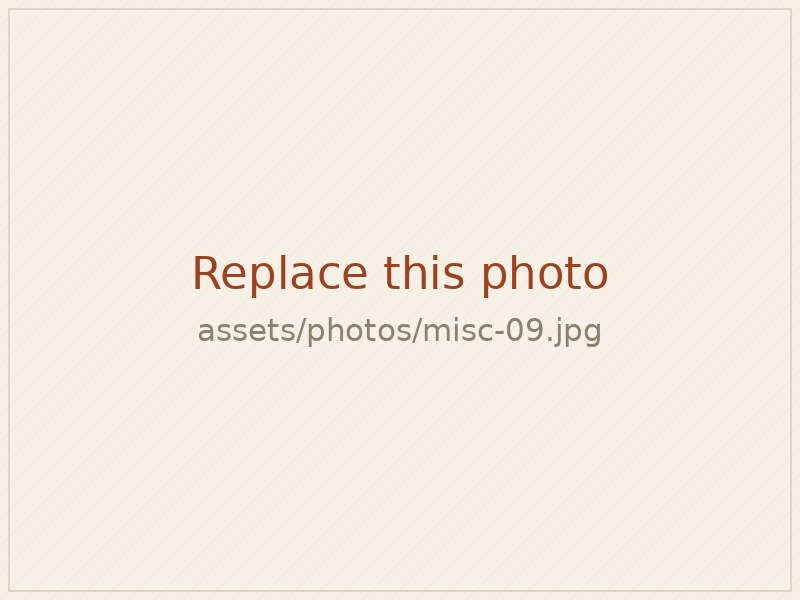
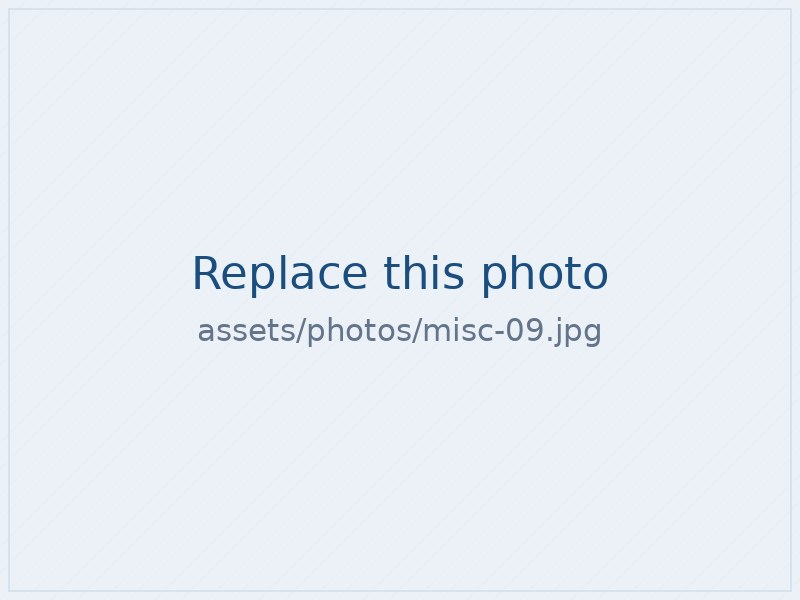
Add files via upload

Changed region(s): [[0.2188, 0.42, 0.7812, 0.6], [0.0, 0.96, 1.0, 0.99], [0.0, 0.0, 1.0, 0.03]]

diff --git a/assets/assets/styles.css b/assets/assets/styles.css
@@ -5,17 +5,17 @@
    ========================================================================== */
 
 :root {
-  --bg:          #FCF9F4;
-  --bg-tint:     #F6F0E7;
+  --bg:          #F8FAFC;
+  --bg-tint:     #EBF1F7;
   --surface:     #FFFFFF;
-  --ink:         #211D18;
-  --ink-soft:    #453D34;
-  --muted:       #756A5D;
-  --rule:        #E6DCCD;
-  --accent:      #9C4221;
-  --accent-deep: #7A3319;
-  --accent-soft: #F4E6DC;
-  --teal:        #1F4B4E;
+  --ink:         #101922;
+  --ink-soft:    #33414F;
+  --muted:       #64748B;
+  --rule:        #DAE3EC;
+  --accent:      #1B4E7E;
+  --accent-deep: #123859;
+  --accent-soft: #E1ECF6;
+  --teal:        #0E5E5A;
 
   --font-display: "Fraunces", "Iowan Old Style", "Palatino Linotype", Palatino,
                   Georgia, "Times New Roman", serif;
@@ -29,17 +29,17 @@
 
 @media (prefers-color-scheme: dark) {
   :root {
-    --bg:          #14120F;
-    --bg-tint:     #1C1915;
-    --surface:     #1A1713;
-    --ink:         #F1EAE0;
-    --ink-soft:    #DCD3C7;
-    --muted:       #A79B8B;
-    --rule:        #332D25;
-    --accent:      #E08256;
-    --accent-deep: #F0A280;
-    --accent-soft: #2A1E17;
-    --teal:        #7FB3B5;
+    --bg:          #0B1017;
+    --bg-tint:     #121A24;
+    --surface:     #101821;
+    --ink:         #E8EFF6;
+    --ink-soft:    #C7D3DF;
+    --muted:       #8FA0B2;
+    --rule:        #1F2A36;
+    --accent:      #74B4EA;
+    --accent-deep: #9BCCF5;
+    --accent-soft: #12202D;
+    --teal:        #6FBFB6;
     --shadow: 0 1px 2px rgba(0,0,0,.3), 0 8px 24px -12px rgba(0,0,0,.6);
   }
 }

diff --git a/assets/README.md b/assets/README.md
@@ -1,4 +1,4 @@
-# fiorellapizzolon.github.io
+# fiorella-pizzolon.github.io
 
 Personal academic website — Fiorella Pizzolon, Assistant Professor of Economics, Hamilton College.
 
